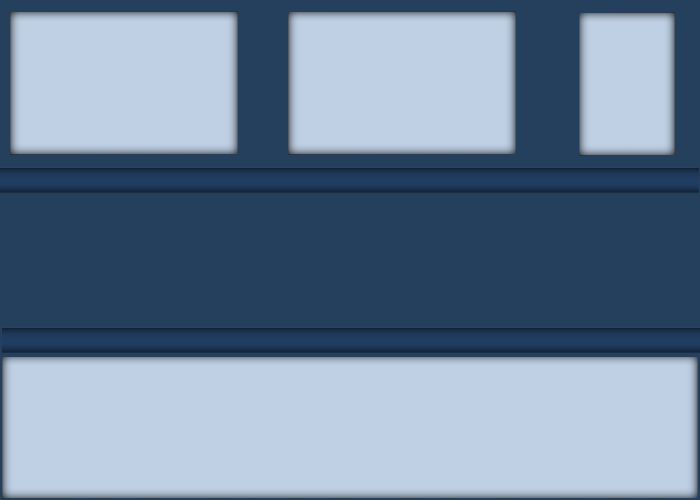
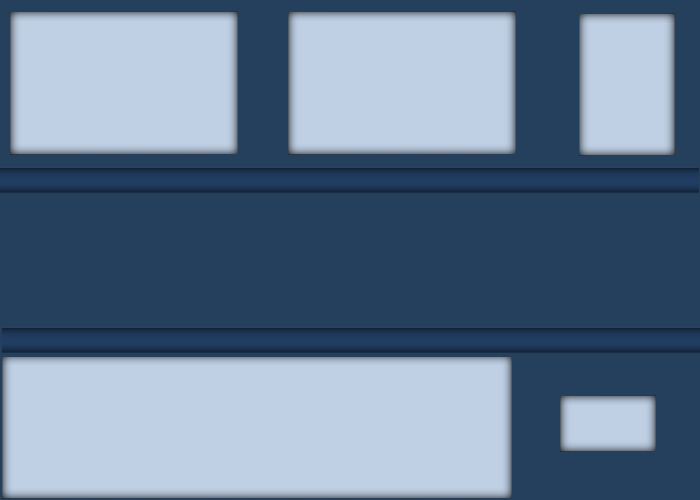
Table is ready

Changed region(s): [[0.72, 0.69, 1.0, 1.0]]

diff --git a/core/src/com/mygdx/deleter/screens/MainScreen.java b/core/src/com/mygdx/deleter/screens/MainScreen.java
@@ -4,14 +4,22 @@ import com.badlogic.gdx.graphics.Texture;
 import com.badlogic.gdx.graphics.g2d.SpriteBatch;
 import com.badlogic.gdx.scenes.scene2d.Stage;
 import com.badlogic.gdx.scenes.scene2d.ui.Image;
+import com.badlogic.gdx.scenes.scene2d.ui.Table;
 import com.mygdx.deleter.DeleterProject;
 
 
 public class MainScreen extends AbstractScreen {
 
     SpriteBatch batch;
-    Image img;
     protected Stage stage;
+
+    Image imgBackground;
+
+    //Tables
+   private boolean tableDebug = true;
+    private Table tableMain;
+    private Table tableTop;
+
 
     public MainScreen(DeleterProject dp) {
         super();
@@ -22,8 +30,41 @@ public class MainScreen extends AbstractScreen {
     protected void init() {
         batch = new SpriteBatch();
         stage = new Stage();
-        img = new Image( new Texture("background.png"));
-        stage.addActor(img);
+        initBackground();
+         initTables();
+
+    }
+
+    private void initTables() {
+        tableMain = new Table();
+        tableMain.setFillParent(true);
+        tableMain.setDebug(true);
+        tableMain.top().left().padTop(10f);
+        stage.addActor(tableMain);
+
+        tableTop = new Table();
+        tableTop.setDebug(true);
+        tableTop.top();
+        ///TOP
+        tableTop.add().width(230f).height(145f).padLeft(10f);
+        tableTop.add().width(230f).height(145f).padLeft(45f);
+        tableTop.add().width(95f).height(145f).padLeft(65f);
+        tableTop.row();
+        //MID
+        tableTop.add().expandX().height(140f).colspan(3).padTop(35f);
+        tableTop.row();
+        //BOT
+        tableTop.add().width(510f).height(140f).colspan(2).padTop(28f);
+        tableTop.add().width(100f).height(55f).padTop(28f).padLeft(30f);
+        
+
+
+        tableMain.add(tableTop);
+    }
+
+    private void initBackground() {
+        imgBackground = new Image( new Texture("background.png"));
+        stage.addActor(imgBackground);
     }
 
 
